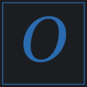
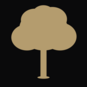
Wallet pass — AMEX Centurion-inspired luxury rebrand
Eric noted the cobalt-on-graphite pass read more "members club tech" than
"private banking ultra-luxury." For Tilman the pitch needs to ooze AMEX
Black Card. Restraint, near-black, single metallic accent, iconic mark.

Pass template (scripts/pass-template.pass/):
- pass.json palette:
    backgroundColor   rgb(28,29,32)   → rgb(10,10,11)     near-black
    foregroundColor   rgb(244,241,234) → rgb(232,226,210)  warm cream
    labelColor        rgb(43,108,176)  → rgb(180,156,110)  champagne gold
- Dropped logoText. The logo image now carries the wordmark — letting
  the Didot serif speak instead of falling back to Apple's system font.
- New logo.png + [email redacted] — "THE OAK ROOM" rendered in macOS Didot
  with 6px kerning, champagne gold #B49C6E on transparent. Same wordmark
  reads on the pass face header.
- Icon redesigned — black background + champagne tree silhouette
  (simplified from Builder's brushed-metal card silhouette). Kept Eric's
  app-wide cobalt favicon untouched; pass icon is its own thing for the
  ultra-luxe register.
- founders.pkpass regenerated and committed.

In-app WalletPassFace (components/ClubApp.jsx):
- New constants PASS_BG, PASS_FG, CHAMPAGNE — separate from the
  app-wide MARBLE/COBALT so the wallet card has its own register
  without bleeding into the rest of the UI.
- All cobalt label colors replaced with champagne. Background swapped
  to PASS_BG with a subtle radial gradient at the top for depth.
[…]

diff --git a/components/ClubApp.jsx b/components/ClubApp.jsx
@@ -36,6 +36,13 @@ const VEIN = "#9AA3AE";          // cool grey vein — borders, dividers, SVG st
 const VEIN_TEXT = "#B8C2CC";     // brighter vein — text-only, ≈5.2:1 on GRAPHITE for WCAG AA
 const TEXT_DIM = "#A4A8AE";      // bumped from #8B8E94 for AA contrast
 
+// Wallet pass — AMEX Centurion-inspired palette, used by WalletPassFace
+// + scripts/pass-template.pass/pass.json. Different from the in-app cobalt
+// accent to give the wallet card a distinct ultra-luxury register.
+const PASS_BG = "#0A0A0B";       // near-black, slight warmth
+const PASS_FG = "#E8E2D2";       // warm cream / faint marble
+const CHAMPAGNE = "#B49C6E";     // antique gold accent — labels, tree mark
+
 const fontStack = {
   display: "'Canela', 'GT Super Display', 'Cormorant Garamond', Georgia, serif",
   body: "'Söhne', 'Inter Tight', 'Helvetica Neue', sans-serif",
@@ -745,27 +752,65 @@ const WalletPassFace = () => (
     style={{
       aspectRatio: "5 / 8",
       maxWidth: 260,
-      background: GRAPHITE,
+      background: `radial-gradient(ellipse at 50% 30%, #15151700 0%, ${PASS_BG} 70%), ${PASS_BG}`,
       borderRadius: 18,
-      color: MARBLE,
+      color: PASS_FG,
       boxShadow: `
-        0 30px 60px -30px rgba(0,0,0,0.7),
-        0 0 0 1px rgba(255,255,255,0.05),
-        inset 0 1px 0 rgba(255,255,255,0.12)
+        0 30px 60px -30px rgba(0,0,0,0.85),
+        0 0 0 1px rgba(180,156,110,0.12),
+        inset 0 1px 0 rgba(255,255,255,0.05)
       `,
     }}
   >
-    {/* Top — header + NFC waves */}
-    <div className="px-5 pt-5 flex items-start justify-between">
+    {/* Tree silhouette watermark — AMEX Centurion-style relief mark behind the text */}
+    <svg
+      className="absolute pointer-events-none"
+      style={{ top: "8%", left: "50%", transform: "translateX(-50%)", width: "60%", opacity: 0.06 }}
+      viewBox="0 0 200 200"
+      aria-hidden="true"
+    >
+      <g fill={CHAMPAGNE}>
+        <path d="M93,180 L93,115 Q97,108 100,109 Q103,108 107,115 L107,180 Z" />
+        <ellipse cx="100" cy="178" rx="14" ry="3" />
+        <ellipse cx="100" cy="68" rx="56" ry="48" />
+        <ellipse cx="62" cy="86" rx="36" ry="30" />
+        <ellipse cx="138" cy="84" rx="38" ry="32" />
+        <ellipse cx="80" cy="46" rx="32" ry="26" />
+        <ellipse cx="120" cy="44" rx="34" ry="28" />
+        <ellipse cx="100" cy="34" rx="26" ry="22" />
+      </g>
+    </svg>
+
+    {/* Top — wordmark + NFC waves */}
+    <div className="relative px-5 pt-5 flex items-start justify-between">
       <div>
-        <p className="text-[9px] tracking-[0.4em] uppercase" style={{ fontFamily: fontStack.body, color: COBALT, fontWeight: 500 }}>
+        <p
+          className="text-base"
+          style={{
+            fontFamily: fontStack.display,
+            color: CHAMPAGNE,
+            fontWeight: 400,
+            letterSpacing: "0.18em",
+            textTransform: "uppercase",
+          }}
+        >
           The Oak Room
         </p>
-        <p className="text-[10px] mt-1 italic" style={{ fontFamily: fontStack.display, color: MARBLE + "AA" }}>
+        <p className="text-[10px] mt-1 italic" style={{ fontFamily: fontStack.display, color: PASS_FG + "AA" }}>
           The Post Oak Hotel · Houston
         </p>
       </div>
-      <svg width="22" height="22" viewBox="0 0 24 24" fill="none" stroke="currentColor" strokeWidth="1.6" strokeLinecap="round" style={{ color: MARBLE + "99" }} aria-hidden="true">
+      <svg
+        width="22"
+        height="22"
+        viewBox="0 0 24 24"
+        fill="none"
+        stroke="currentColor"
+        strokeWidth="1.6"
+        strokeLinecap="round"
+        style={{ color: CHAMPAGNE + "AA" }}
+        aria-hidden="true"
+      >
         <path d="M6 6 Q 13 12 6 18" />
         <path d="M10 6 Q 17 12 10 18" />
         <path d="M14 6 Q 21 12 14 18" />
@@ -773,41 +818,44 @@ const WalletPassFace = () => (
     </div>
 
     {/* Primary field — Member name */}
-    <div className="px-5 mt-7">
-      <p className="text-[9px] tracking-[0.4em] uppercase" style={{ fontFamily: fontStack.body, color: COBALT, fontWeight: 500 }}>
+    <div className="relative px-5 mt-8">
+      <p className="text-[9px] tracking-[0.4em] uppercase" style={{ fontFamily: fontStack.body, color: CHAMPAGNE, fontWeight: 500 }}>
         Member
       </p>
-      <p className="text-2xl mt-1 leading-tight" style={{ fontFamily: fontStack.display, fontWeight: 400, letterSpacing: "-0.01em", color: MARBLE }}>
+      <p
+        className="text-2xl mt-1 leading-tight"
+        style={{ fontFamily: fontStack.display, fontWeight: 400, letterSpacing: "-0.01em", color: PASS_FG }}
+      >
         {MEMBER.name}
       </p>
     </div>
 
     {/* Secondary fields */}
-    <div className="px-5 mt-5 flex gap-7">
+    <div className="relative px-5 mt-5 flex gap-7">
       <div>
-        <p className="text-[9px] tracking-[0.4em] uppercase" style={{ fontFamily: fontStack.body, color: COBALT, fontWeight: 500 }}>
+        <p className="text-[9px] tracking-[0.4em] uppercase" style={{ fontFamily: fontStack.body, color: CHAMPAGNE, fontWeight: 500 }}>
           Tier
         </p>
-        <p className="text-base mt-1 italic" style={{ fontFamily: fontStack.display, color: MARBLE }}>
+        <p className="text-base mt-1 italic" style={{ fontFamily: fontStack.display, color: PASS_FG }}>
           {MEMBER.tier}
         </p>
       </div>
       <div>
-        <p className="text-[9px] tracking-[0.4em] uppercase" style={{ fontFamily: fontStack.body, color: COBALT, fontWeight: 500 }}>
+        <p className="text-[9px] tracking-[0.4em] uppercase" style={{ fontFamily: fontStack.body, color: CHAMPAGNE, fontWeight: 500 }}>
           No.
         </p>
-        <p className="text-base mt-1 italic" style={{ fontFamily: fontStack.display, color: MARBLE }}>
+        <p className="text-base mt-1 italic" style={{ fontFamily: fontStack.display, color: PASS_FG }}>
           {MEMBER.memberNo}
         </p>
       </div>
     </div>
 
     {/* Auxiliary — member since */}
-    <div className="px-5 mt-4">
-      <p className="text-[9px] tracking-[0.4em] uppercase" style={{ fontFamily: fontStack.body, color: COBALT, fontWeight: 500 }}>
+    <div className="relative px-5 mt-4">
+      <p className="text-[9px] tracking-[0.4em] uppercase" style={{ fontFamily: fontStack.body, color: CHAMPAGNE, fontWeight: 500 }}>
         Member Since
       </p>
-      <p className="text-sm mt-1 italic" style={{ fontFamily: fontStack.display, color: MARBLE + "DD" }}>
+      <p className="text-sm mt-1 italic" style={{ fontFamily: fontStack.display, color: PASS_FG + "DD" }}>
         {MEMBER.joined}
       </p>
     </div>